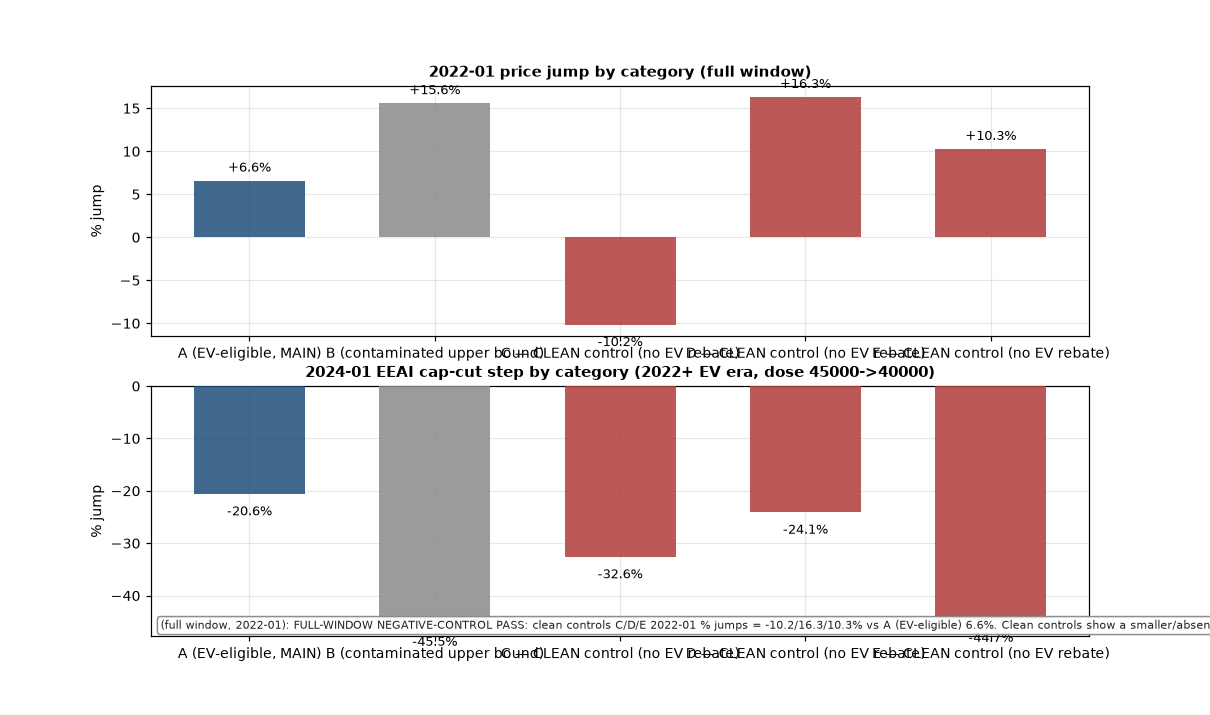
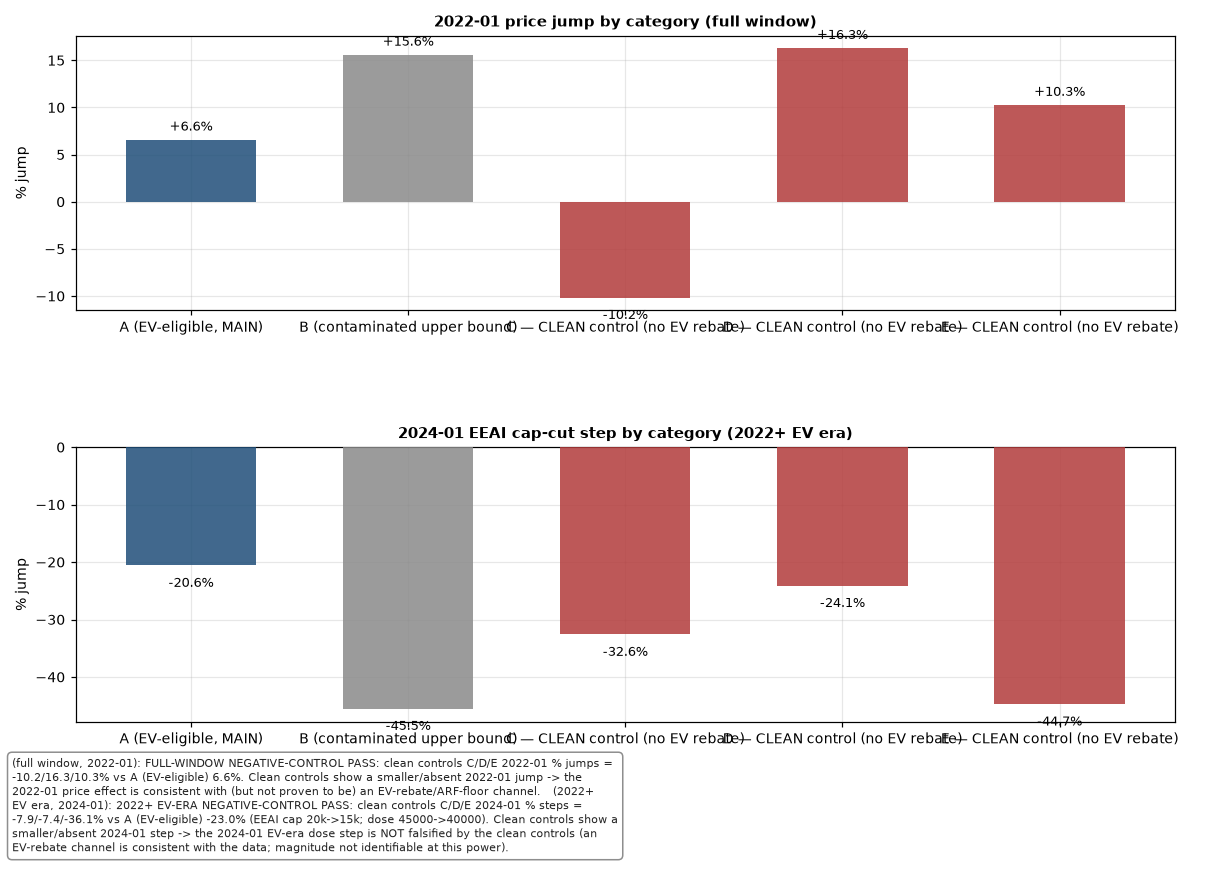
Fix Figures 2 and 7: overall titles, spacing, and lead-side bug
Figure 2 (02_negative_controls.png):
- Shorten the overall title second line (the long one broke tight_layout)
- Move the verdict from a single ~380-char line inside the bottom panel
  (ran off the figure edge, overlapped bars/labels) to a wrapped caption
  in its own reserved band below the chart
- Figure 6.5in -> 8in tall, wider panel spacing
- Drop the last 'dose' wording from the 2024-01 panel title

Figure 7 (07_event_study.png):
- Add the overall 'Chart 7 —' title on the top panel (was missing)
- Fix xpos(): lead_-k was double-negated, plotting all pre-treatment
  leads on the RIGHT of the onset line; leads now at x=-k as the axis
  label states
- Reword event panel titles in layman terms (rebate S, no 'dose')
- Move per-panel pre-trend verdict boxes to each panel's free top
  corner (bottom-right overlapped the lowest right-side labels)

Verified via programmatic geometry checks (zero overlaps, titles fit);
pipeline verification PASS.

diff --git a/src/13_charts.py b/src/13_charts.py
@@ -45,6 +45,7 @@ import importlib.util
 from pathlib import Path
 
 import numpy as np
+import textwrap
 import pandas as pd
 import matplotlib
 
@@ -203,28 +204,30 @@ def chart02() -> None:
                 ha="center", fontsize=8.5,
             )
 
-    fig, (ax1, ax2) = plt.subplots(2, 1, figsize=(11, 6.5))
+    fig, (ax1, ax2) = plt.subplots(2, 1, figsize=(11, 8.0))
     ax1.set_title(
         "Chart 2 — Negative-control check: % price jump by category\n"
-        "2022-01 (full window; $0 ARF floor + 97->110kW threshold, market-wide) "
-        "and 2024-01 (EV era; the pure EV-rebate variation)",
+        "2022-01 (full window) and 2024-01 (EV era)",
+        pad=12,
     )
     nc_panel(ax1, "reg_arffloor_zero_202201",
              "2022-01 price jump by category (full window)")
     nc_panel(ax2, "reg_eeai_cap15k_202401",
-             "2024-01 EEAI cap-cut step by category (2022+ EV era, dose 45000->40000)")
+             "2024-01 EEAI cap-cut step by category (2022+ EV era)")
     verdicts = []
     for line in (TABLES / "negative_controls.csv").read_text().splitlines():
         if line.startswith("# VERDICT"):
             verdicts.append(line)
-    verdict_txt = "  ".join(v[len("# VERDICT "):] for v in verdicts)
-    ax2.annotate(
-        verdict_txt[:380],
-        xy=(0.01, 0.02), xycoords="axes fraction", ha="left", va="bottom",
-        fontsize=7.0, color="#222222",
-        bbox=dict(boxstyle="round", fc="white", ec="#888888", alpha=0.95),
+    verdict_txt = "   ".join(v[len("# VERDICT "):] for v in verdicts)
+    # verdict caption below the chart (wrapped; full text in the CSV)
+    fig.text(
+        0.01, 0.14, textwrap.fill(verdict_txt, width=105),
+        ha="left", va="top", fontsize=7.5, color="#222222",
+        bbox=dict(boxstyle="round,pad=0.4", fc="white", ec="#888888",
+                  alpha=0.95),
     )
     fig.tight_layout()
+    fig.subplots_adjust(hspace=0.5, bottom=0.18)
     fig.savefig(CHARTS / "02_negative_controls.png")
     plt.close(fig)
     print("[chart02] wrote charts/02_negative_controls.png + tables/chart02_negative_controls.csv")
@@ -581,7 +584,9 @@ def chart07() -> None:
     # term -> integer x position (lead -k at -k, onset at 0, lag groups ordered)
     def xpos(term: str) -> int:
         if term.startswith("lead_-"):
-            return -int(term.split("_")[-1])
+            # the trailing token already carries the minus sign ("lead_-6"
+            # -> -6), so no extra negation
+            return int(term.split("_")[-1])
         if term == "onset_0":
             return 0
         m = {
@@ -593,16 +598,16 @@ def chart07() -> None:
 
     episodes = [
         ("2018-01_cevs_lapse_VES_onset",
-         "Event 1 — CEVS lapse / VES onset (2018-01): dose 20000 (CEVS est.) "
-         "-> 25000 (VES A1, verified)"),
+         "Event 1 — CEVS lapse / VES onset (2018-01): rebate ~S$20k (estimate) "
+         "-> S$25k (verified)"),
         ("2021-01_enhanced_VES_EEAI_stack",
-         "Event 2 — Enhanced VES + EEAI (2021-01): dose 25000 -> 45000 "
-         "(verified stack); EV-relevant from here on"),
+         "Event 2 — Enhanced VES + EEAI (2021-01): rebate S$25k -> S$45k "
+         "(verified); EV-relevant from here on"),
         ("2022-01_ARF_floor_zero_PLUS_threshold_bounded",
-         "Event 3 — $0 ARF floor (TAX; dose unchanged) + 97->110kW threshold "
+         "Event 3 — $0 ARF floor (TAX; rebate unchanged) + 97->110kW threshold "
          "(confounder) (2022-01) [COMBINED / BOUNDED]"),
         ("2024-01_eeai_cap15k_step",
-         "Event 4 — EEAI cap cut 20k -> 15k (2024-01): dose 45000 -> 40000 "
+         "Event 4 — EEAI cap cut S$20k -> S$15k (2024-01): rebate S$45k -> S$40k "
          "(verified; the EV-era step)"),
     ]
     fig, axes = plt.subplots(4, 1, figsize=(11, 13), sharex=True)
@@ -632,7 +637,15 @@ def chart07() -> None:
         ax.set_title(title, fontsize=9.5)
         ax.set_ylabel("coef (S$ thousands)")
 
-    # pre-trend verdicts (from prechecks, verbatim) — annotate each panel
+    # pre-trend verdicts (from prechecks, verbatim) — annotate each panel.
+    # Top corners: bottom-right is where the most negative right-side points
+    # (and their labels) sit, so keep the box in the free top corner per panel.
+    corner = {
+        "2018-01_cevs_lapse_VES_onset": (0.99, "right"),
+        "2021-01_enhanced_VES_EEAI_stack": (0.01, "left"),
+        "2022-01_ARF_floor_zero_PLUS_threshold_bounded": (0.01, "left"),
+        "2024-01_eeai_cap15k_step": (0.99, "right"),
+    }
     for ax, (ep, _title) in zip(axes, episodes):
         p = pre[pre["episode"] == ep]
         if not len(p):
@@ -644,17 +657,25 @@ def chart07() -> None:
             o = onset.iloc[0]
             onset_txt = (f" onset {o['coef']/1000:+.1f}k S$ "
                          f"[{o['ci_lo']/1000:+.1f}k, {o['ci_hi']/1000:+.1f}k]")
+        x_frac, ha = corner[ep]
         ax.annotate(
-            f"pre_trend_clean={p['pre_trend_clean']}{onset_txt}; "
-            + p["pre_trend_interpretation"][:120],
-            xy=(0.99, 0.03), xycoords="axes fraction", ha="right", va="bottom",
-            fontsize=7.4,
+            textwrap.fill(
+                f"pre_trend_clean={p['pre_trend_clean']}{onset_txt}; "
+                + p["pre_trend_interpretation"][:120], width=62),
+            xy=(x_frac, 0.985), xycoords="axes fraction", ha=ha, va="top",
+            fontsize=7.0,
             color="#b23b3b" if not p["pre_trend_clean"] else "#2e7d32",
             bbox=dict(boxstyle="round", fc="white",
                       ec="#b23b3b" if not p["pre_trend_clean"] else "#2e7d32",
                       alpha=0.95),
         )
     axes[-1].set_xlabel("Relative month to onset (leads < 0 = before, 0 = onset, lags > 0 = after)")
+    # overall figure title on the top panel (consistent with the other charts)
+    axes[0].set_title(
+        "Chart 7 — Event study: Category A price response around each policy change\n"
+        + episodes[0][1],
+        pad=8,
+    )
     fig.tight_layout()
     fig.savefig(CHARTS / "07_event_study.png")
     plt.close(fig)
